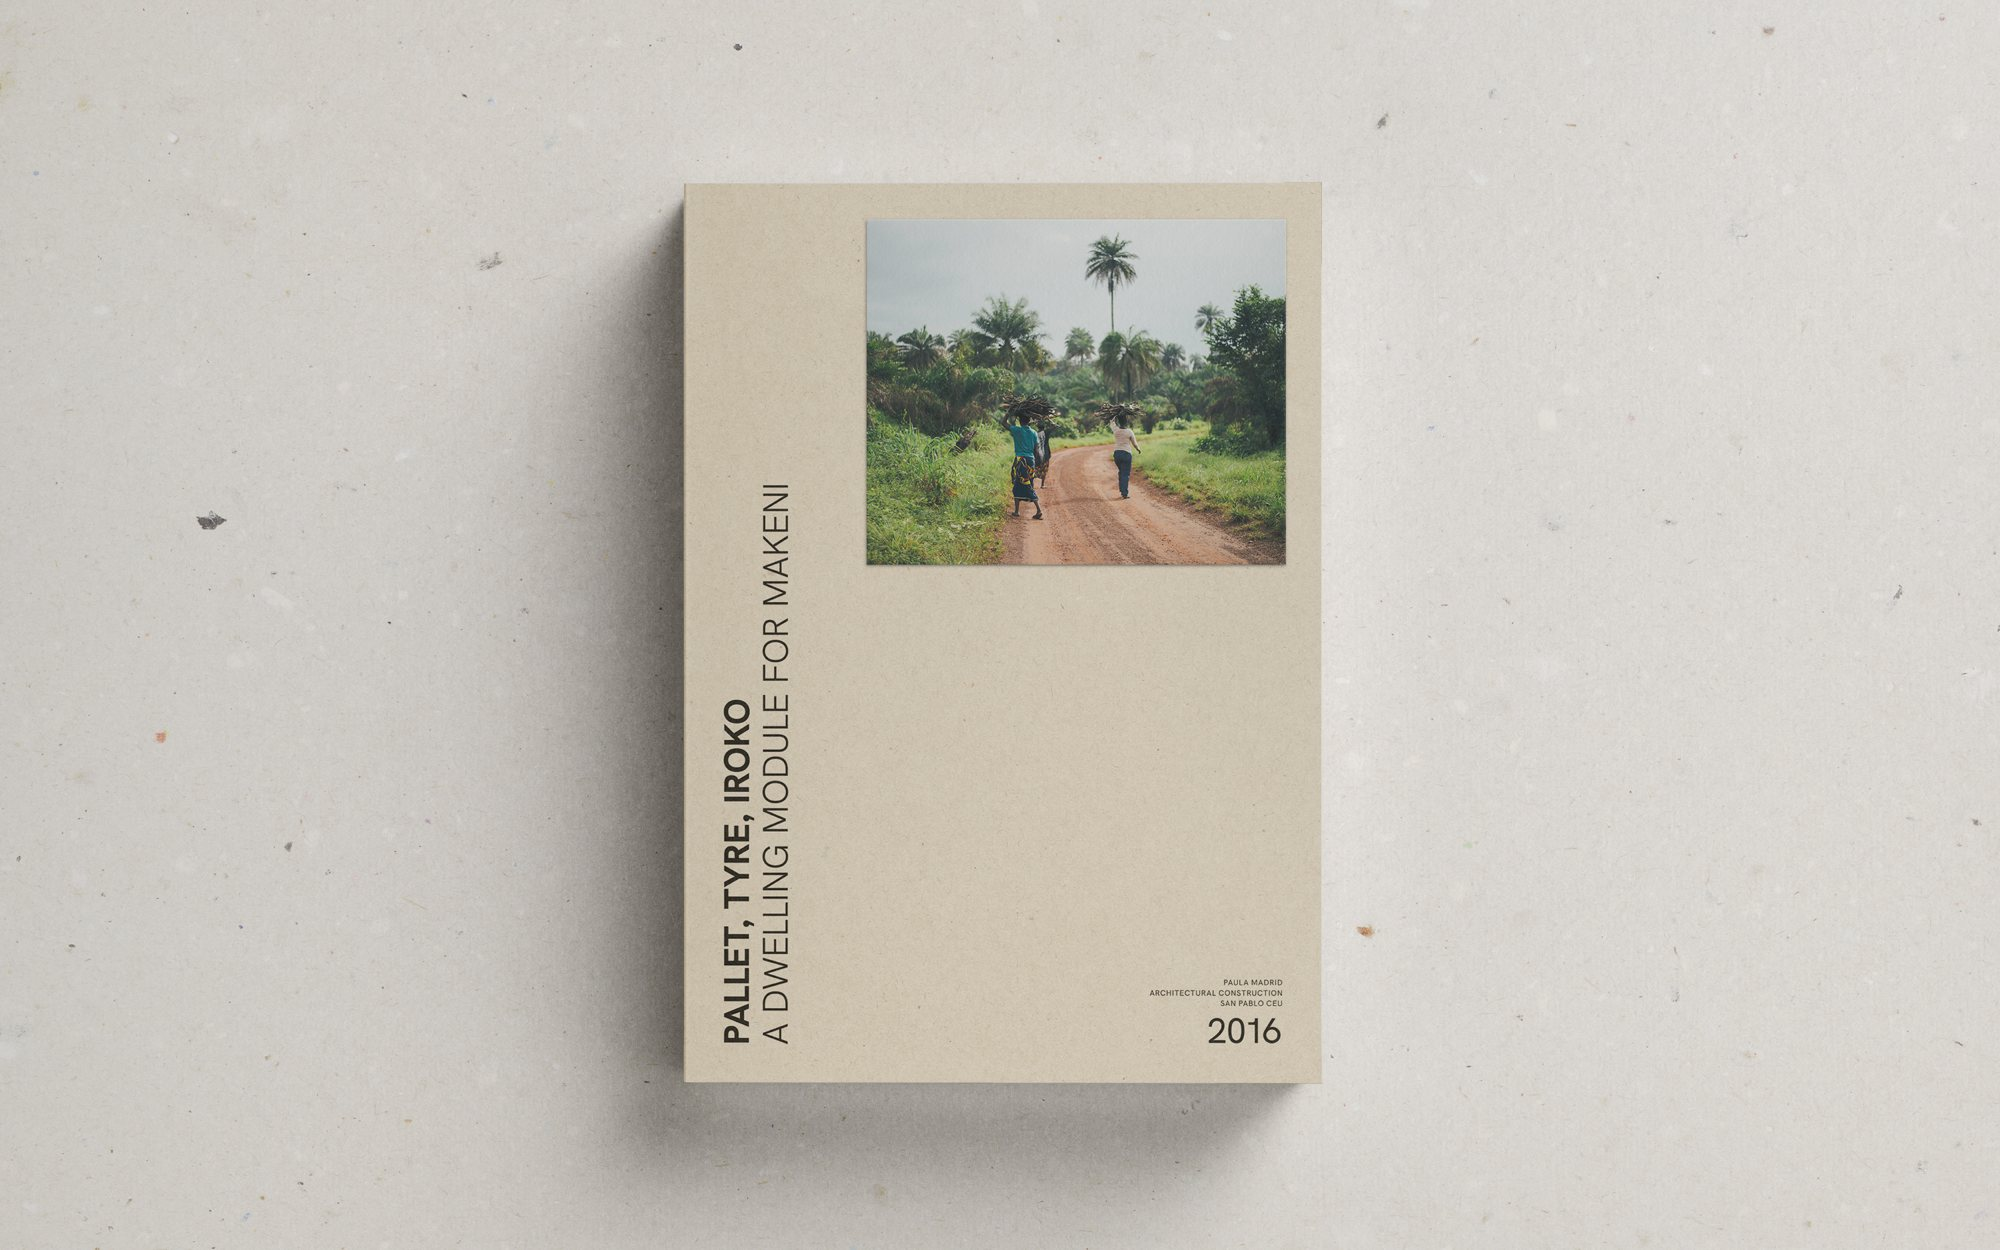
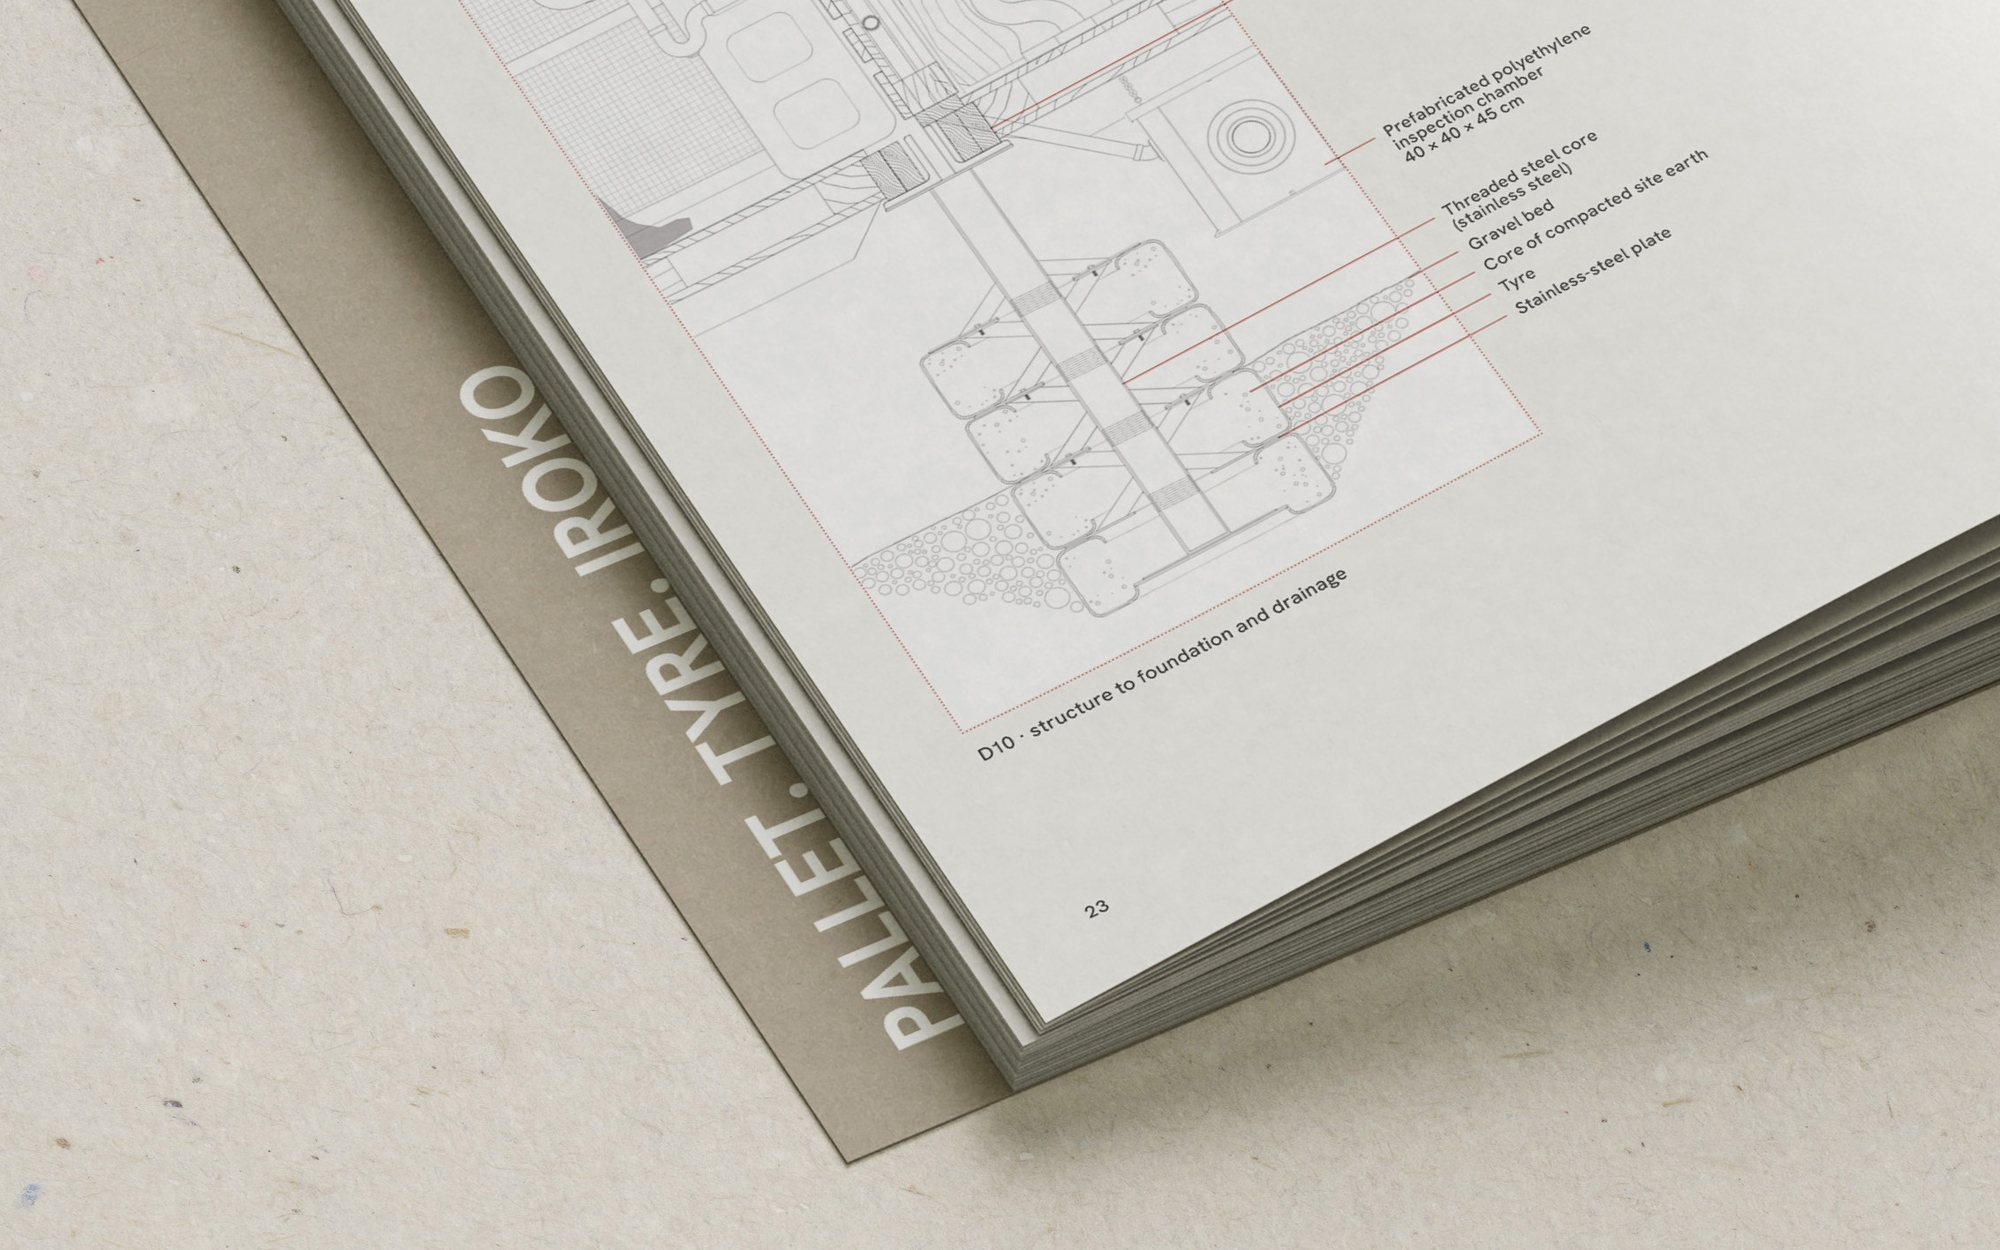
Publish Park Residences; Pallet, Tyre, Iroko with full 17-image sequence and alt text
Claude-Session: https://claude.ai/code/session_01QFmfzVZUR4g7GbsELw1anY

diff --git a/index.html b/index.html
@@ -218,6 +218,21 @@ body.locked{overflow:hidden}
       <button class="next" type="button" aria-label="Next image"><svg viewBox="0 0 16 16"><path d="M1 8h14M10 3l5 5-5 5"/></svg></button>
       <span class="enlarge" aria-hidden="true"><svg viewBox="0 0 16 16"><path d="M9 1h6v6M15 1 9 7M7 15H1V9M1 15l6-6"/></svg></span>    </div>
   </article>
+  <article class="project" id="park-residences" style="order:8">
+    <div class="head">
+      <h2><a href="#park-residences">Park Residences</a></h2>
+      <ul class="tags"><li>Editorial Design</li><li>Print Design</li></ul>
+    </div>
+    <div class="body">
+      <p>Sales dossier for Park Residences, two timber residential buildings by Proforma Studio set in an apricot orchard in Goght, near Garni, Armenia. The dossier moves from the orchard concept through the site and building to each apartment type, with the architects’ drawings redrawn as one consistent set.</p>
+      <p class="meta">Year: 2026<br>Context: Proforma Studio</p>
+    </div>
+    <div class="slides" data-count="8">
+      <button class="frame" type="button" aria-label="Enlarge Park Residences"><img src="img/park-residences-1.jpg" alt="Park Residences, image 1 of 8" loading="lazy" decoding="async"><img src="img/park-residences-2.jpg" alt="Park Residences, image 2 of 8" loading="lazy" decoding="async" hidden><img src="img/park-residences-3.jpg" alt="Park Residences, image 3 of 8" loading="lazy" decoding="async" hidden><img src="img/park-residences-4.jpg" alt="Park Residences, image 4 of 8" loading="lazy" decoding="async" hidden><img src="img/park-residences-5.jpg" alt="Park Residences, image 5 of 8" loading="lazy" decoding="async" hidden><img src="img/park-residences-6.jpg" alt="Park Residences, image 6 of 8" loading="lazy" decoding="async" hidden><img src="img/park-residences-7.jpg" alt="Park Residences, image 7 of 8" loading="lazy" decoding="async" hidden><img src="img/park-residences-8.jpg" alt="Park Residences, image 8 of 8" loading="lazy" decoding="async" hidden></button>
+      <button class="prev" type="button" aria-label="Previous image"><svg viewBox="0 0 16 16"><path d="M15 8H1M6 3 1 8l5 5"/></svg></button>
+      <button class="next" type="button" aria-label="Next image"><svg viewBox="0 0 16 16"><path d="M1 8h14M10 3l5 5-5 5"/></svg></button>
+      <span class="enlarge" aria-hidden="true"><svg viewBox="0 0 16 16"><path d="M9 1h6v6M15 1 9 7M7 15H1V9M1 15l6-6"/></svg></span>    </div>
+  </article>
     </div>
     <div class="col col-right">
   <article class="project" id="mitgera-11" style="order:1">
@@ -276,6 +291,21 @@ body.locked{overflow:hidden}
     </div>
     <div class="slides" data-count="13">
       <button class="frame" type="button" aria-label="Enlarge From the Arctic Edge to Ocean Bloom"><img src="img/arctic-edge-1.jpg" alt="From the Arctic Edge to Ocean Bloom, image 1 of 13" loading="lazy" decoding="async"><img src="img/arctic-edge-2.jpg" alt="From the Arctic Edge to Ocean Bloom, image 2 of 13" loading="lazy" decoding="async" hidden><img src="img/arctic-edge-3.jpg" alt="From the Arctic Edge to Ocean Bloom, image 3 of 13" loading="lazy" decoding="async" hidden><img src="img/arctic-edge-4.jpg" alt="From the Arctic Edge to Ocean Bloom, image 4 of 13" loading="lazy" decoding="async" hidden><img src="img/arctic-edge-5.jpg" alt="From the Arctic Edge to Ocean Bloom, image 5 of 13" loading="lazy" decoding="async" hidden><img src="img/arctic-edge-6.jpg" alt="From the Arctic Edge to Ocean Bloom, image 6 of 13" loading="lazy" decoding="async" hidden><img src="img/arctic-edge-7.jpg" alt="From the Arctic Edge to Ocean Bloom, image 7 of 13" loading="lazy" decoding="async" hidden><img src="img/arctic-edge-8.jpg" alt="From the Arctic Edge to Ocean Bloom, image 8 of 13" loading="lazy" decoding="async" hidden><img src="img/arctic-edge-9.jpg" alt="From the Arctic Edge to Ocean Bloom, image 9 of 13" loading="lazy" decoding="async" hidden><img src="img/arctic-edge-10.jpg" alt="From the Arctic Edge to Ocean Bloom, image 10 of 13" loading="lazy" decoding="async" hidden><img src="img/arctic-edge-11.jpg" alt="From the Arctic Edge to Ocean Bloom, image 11 of 13" loading="lazy" decoding="async" hidden><img src="img/arctic-edge-12.jpg" alt="From the Arctic Edge to Ocean Bloom, image 12 of 13" loading="lazy" decoding="async" hidden><img src="img/arctic-edge-13.jpg" alt="From the Arctic Edge to Ocean Bloom, image 13 of 13" loading="lazy" decoding="async" hidden></button>
+      <button class="prev" type="button" aria-label="Previous image"><svg viewBox="0 0 16 16"><path d="M15 8H1M6 3 1 8l5 5"/></svg></button>
+      <button class="next" type="button" aria-label="Next image"><svg viewBox="0 0 16 16"><path d="M1 8h14M10 3l5 5-5 5"/></svg></button>
+      <span class="enlarge" aria-hidden="true"><svg viewBox="0 0 16 16"><path d="M9 1h6v6M15 1 9 7M7 15H1V9M1 15l6-6"/></svg></span>    </div>
+  </article>
+  <article class="project" id="pallet-tyre-iroko" style="order:9">
+    <div class="head">
+      <h2><a href="#pallet-tyre-iroko">Pallet, Tyre, Iroko</a></h2>
+      <ul class="tags"><li>Editorial Design</li><li>Print Design</li><li>Project Documentation</li></ul>
+    </div>
+    <div class="body">
+      <p>Publication for a dwelling module in Makeni, Sierra Leone, built from freight pallets, used tyres and iroko. The original construction drawings are redrawn and set alongside the site, the climate and the assembly sequence.</p>
+      <p class="meta">Year: 2016<br>Context: Master’s thesis, San Pablo CEU</p>
+    </div>
+    <div class="slides" data-count="17">
+      <button class="frame" type="button" aria-label="Enlarge Pallet, Tyre, Iroko"><img src="img/pallet-tyre-iroko-1.jpg" alt="Open book, close-up of detail D10: the tyre footing, steel core and drainage, with red leader lines" loading="lazy" decoding="async"><img src="img/pallet-tyre-iroko-2.jpg" alt="The closed book at an angle, kraft cover with a photograph glued on and white type" loading="lazy" decoding="async" hidden><img src="img/pallet-tyre-iroko-3.jpg" alt="Cover open on the opening page: the finished module drawn above a short paragraph" loading="lazy" decoding="async" hidden><img src="img/pallet-tyre-iroko-4.jpg" alt="Close-up of the opening page: the module drawing and the text about building from parts already in circulation" loading="lazy" decoding="async" hidden><img src="img/pallet-tyre-iroko-5.jpg" alt="Spread 5–6: the Context divider and the brief, with climate charts and figures" loading="lazy" decoding="async" hidden><img src="img/pallet-tyre-iroko-6.jpg" alt="Spread 7–8: Makeni, Sierra Leone, text and three photographs" loading="lazy" decoding="async" hidden><img src="img/pallet-tyre-iroko-7.jpg" alt="Spread 9–10: full-bleed photograph of market stalls built from round timber poles and metal sheet" loading="lazy" decoding="async" hidden><img src="img/pallet-tyre-iroko-8.jpg" alt="Spread 13–14: aggregation and growth, the six principles, the roof plan and a field photograph" loading="lazy" decoding="async" hidden><img src="img/pallet-tyre-iroko-9.jpg" alt="Spread 15–16: pallet, tyre and iroko, each with a photograph, data and a joint drawing" loading="lazy" decoding="async" hidden><img src="img/pallet-tyre-iroko-10.jpg" alt="Close-up of the D1 tyre footing and D4 truss joint, with the red sewing thread in the gutter" loading="lazy" decoding="async" hidden><img src="img/pallet-tyre-iroko-11.jpg" alt="Spread 17–18: the assembly sequence in eleven axonometric steps" loading="lazy" decoding="async" hidden><img src="img/pallet-tyre-iroko-12.jpg" alt="Spread 19–20: sections A-A and B-B" loading="lazy" decoding="async" hidden><img src="img/pallet-tyre-iroko-13.jpg" alt="Close-up of section B-B: two roofs meeting over the shared gutter, details D9 and D10 marked in red" loading="lazy" decoding="async" hidden><img src="img/pallet-tyre-iroko-14.jpg" alt="Spread 21–22: quantities per module and the module plan" loading="lazy" decoding="async" hidden><img src="img/pallet-tyre-iroko-15.jpg" alt="Spread 23–24: details D9 and D10, and water and power" loading="lazy" decoding="async" hidden><img src="img/pallet-tyre-iroko-16.jpg" alt="Spread 25–26: a path through the palms, and the colophon" loading="lazy" decoding="async" hidden><img src="img/pallet-tyre-iroko-17.jpg" alt="The closed book from above, kraft cover with a photograph glued on and white type" loading="lazy" decoding="async" hidden></button>
       <button class="prev" type="button" aria-label="Previous image"><svg viewBox="0 0 16 16"><path d="M15 8H1M6 3 1 8l5 5"/></svg></button>
       <button class="next" type="button" aria-label="Next image"><svg viewBox="0 0 16 16"><path d="M1 8h14M10 3l5 5-5 5"/></svg></button>
       <span class="enlarge" aria-hidden="true"><svg viewBox="0 0 16 16"><path d="M9 1h6v6M15 1 9 7M7 15H1V9M1 15l6-6"/></svg></span>    </div>

diff --git a/build.py b/build.py
@@ -32,6 +32,13 @@ PROJECTS = [
     dict(slug="arctic-edge", title="From the Arctic Edge to Ocean Bloom", tags=["Editorial Design", "3D Illustration"],
          text="Editorial design and custom 3D illustrations for the scientific publication documenting the Arctic Edge to Ocean Bloom ocean experiment, translating complex research and experimental setups into accessible visual storytelling.",
          year="2022", credit=("Context", "Extiv Expeditions"), images=13),
+    dict(slug="park-residences", title="Park Residences", tags=["Editorial Design", "Print Design"],
+         text="Sales dossier for Park Residences, two timber residential buildings by Proforma Studio set in an apricot orchard in Goght, near Garni, Armenia. The dossier moves from the orchard concept through the site and building to each apartment type, with the architects’ drawings redrawn as one consistent set.",
+         year="2026", credit=("Context", "Proforma Studio"), images=8),
+    dict(slug="pallet-tyre-iroko", title="Pallet, Tyre, Iroko", tags=["Editorial Design", "Print Design", "Project Documentation"],
+         text="Publication for a dwelling module in Makeni, Sierra Leone, built from freight pallets, used tyres and iroko. The original construction drawings are redrawn and set alongside the site, the climate and the assembly sequence.",
+         year="2016", credit=("Context", "Master’s thesis, San Pablo CEU"), images=17,
+         alts=['Open book, close-up of detail D10: the tyre footing, steel core and drainage, with red leader lines', 'The closed book at an angle, kraft cover with a photograph glued on and white type', 'Cover open on the opening page: the finished module drawn above a short paragraph', 'Close-up of the opening page: the module drawing and the text about building from parts already in circulation', 'Spread 5–6: the Context divider and the brief, with climate charts and figures', 'Spread 7–8: Makeni, Sierra Leone, text and three photographs', 'Spread 9–10: full-bleed photograph of market stalls built from round timber poles and metal sheet', 'Spread 13–14: aggregation and growth, the six principles, the roof plan and a field photograph', 'Spread 15–16: pallet, tyre and iroko, each with a photograph, data and a joint drawing', 'Close-up of the D1 tyre footing and D4 truss joint, with the red sewing thread in the gutter', 'Spread 17–18: the assembly sequence in eleven axonometric steps', 'Spread 19–20: sections A-A and B-B', 'Close-up of section B-B: two roofs meeting over the shared gutter, details D9 and D10 marked in red', 'Spread 21–22: quantities per module and the module plan', 'Spread 23–24: details D9 and D10, and water and power', 'Spread 25–26: a path through the palms, and the colophon', 'The closed book from above, kraft cover with a photograph glued on and white type']),
 ]
 
 INFO = [
@@ -59,7 +66,7 @@ def press(p):
 
 def project(p, i=0):
     def slide(n):
-        alt = f'{e(p["title"])}, image {n} of {p["images"]}'
+        alt = e(p["alts"][n - 1]) if p.get("alts") else f'{e(p["title"])}, image {n} of {p["images"]}'
         hid = "" if n == 1 else " hidden"
         if n in p.get("videos", ()):  # muted looping video; the .jpg of the same name is its first frame
             return (f'<video src="img/{p["slug"]}-{n}.mp4" poster="img/{p["slug"]}-{n}.jpg" aria-label="{alt}" '
